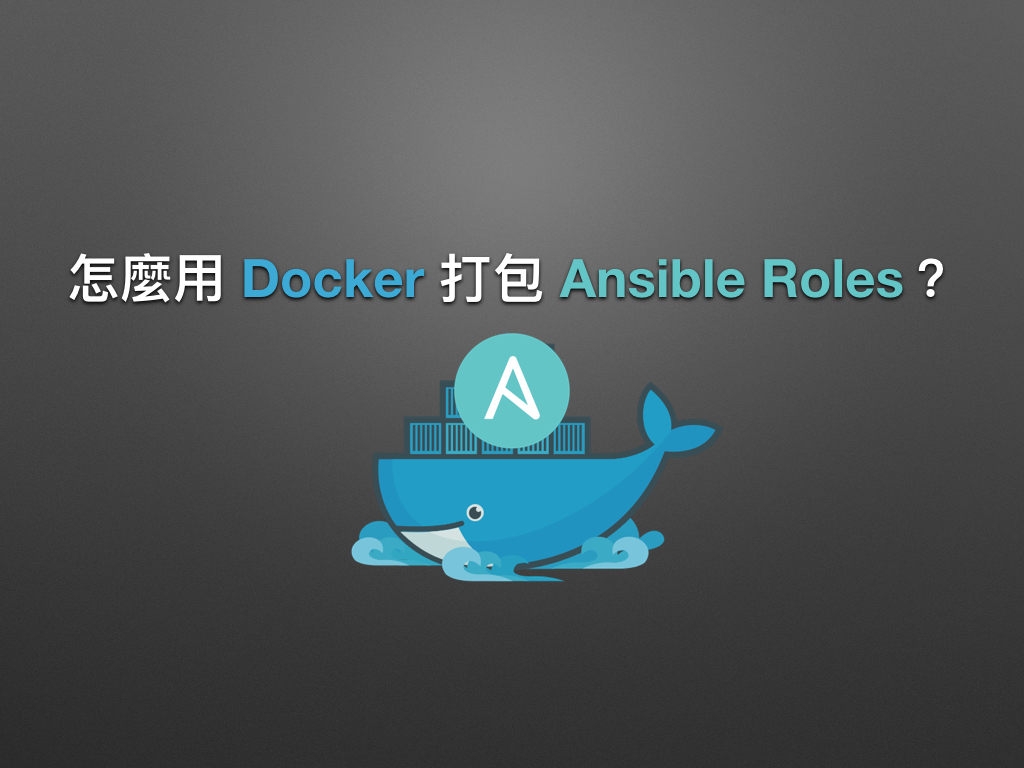
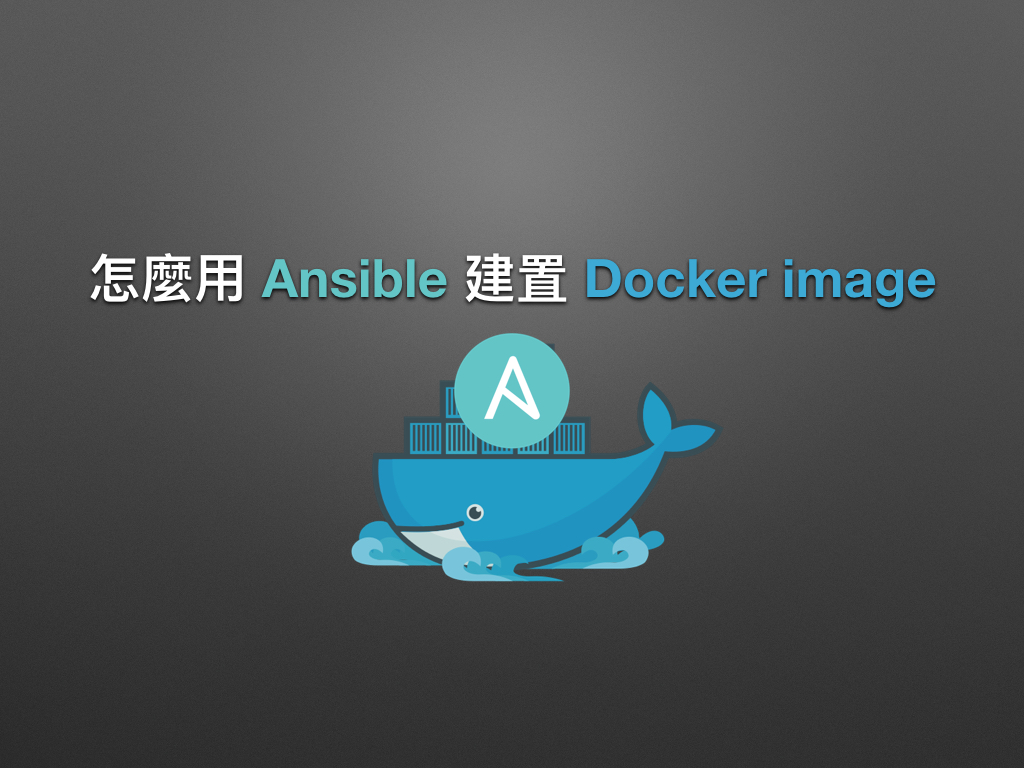
change title name

Changed region(s): [[0.0625, 0.3125, 0.9375, 0.4062]]

diff --git a/README.md b/README.md
@@ -40,7 +40,7 @@ Ansible 是個與 Puppet, SaltStack, Chef 並駕齊驅的組態設定 (Infrastru
 1. [怎麼在 Ansible Galaxy 分享 Roles？(上)](25.how_to_share_roles_on_galaxy-1.md)
 1. [怎麼在 Ansible Galaxy 分享 Roles？(下)](26.how_to_share_roles_on_galaxy-2.md)
 1. [怎麼用 Travis CI 測試 Roles？](27.how-to-test-the-roles-with-travis-ci.md)
-1. [怎麼用 Docker 打包 Ansible Roles？](28.how-to-dockerize-the-ansible-roles.md)
+1. [怎麼用 Ansible 建置 Docker image？](28.how-to-build-docker-iamge-with-ansible.md)
 
   > to be continued ...
 

diff --git a/28.how-to-build-docker-iamge-with-ansible.md b/28.how-to-build-docker-iamge-with-ansible.md
@@ -1,6 +1,6 @@
 # 現代 IT 人一定要知道的 Ansible 自動化組態技巧
 
-## 28. 怎麼用 Docker 打包 Ansible Roles？
+## 28. 怎麼用 Ansible 建置 Docker image？
 
 在「[05. 怎麼用 Docker 練習 Ansible？](05.how-to-practive-the-ansible-with-docker.md)」一章時，曾提過可以用 Ansible 建置 Docker image。接下來凍仁將藉由 [`chusiang.vim-and-vi-mode`][chusiang_vim_role] role 講解 Dockerize (Docker 化) 的小技巧。
 

diff --git a/SUMMARY.md b/SUMMARY.md
@@ -27,4 +27,4 @@
 1. [怎麼在 Ansible Galaxy 分享 Roles？(上)](25.how_to_share_roles_on_galaxy-1.md)
 1. [怎麼在 Ansible Galaxy 分享 Roles？(下)](26.how_to_share_roles_on_galaxy-2.md)
 1. [怎麼用 Travis CI 測試 Roles？](27.how-to-test-the-roles-with-travis-ci.md)
-1. [怎麼用 Docker 打包 Ansible Roles？](28.how-to-dockerize-the-ansible-roles.md)
+1. [怎麼用 Ansible 建置 Docker image？](28.how-to-build-docker-iamge-with-ansible.md)
